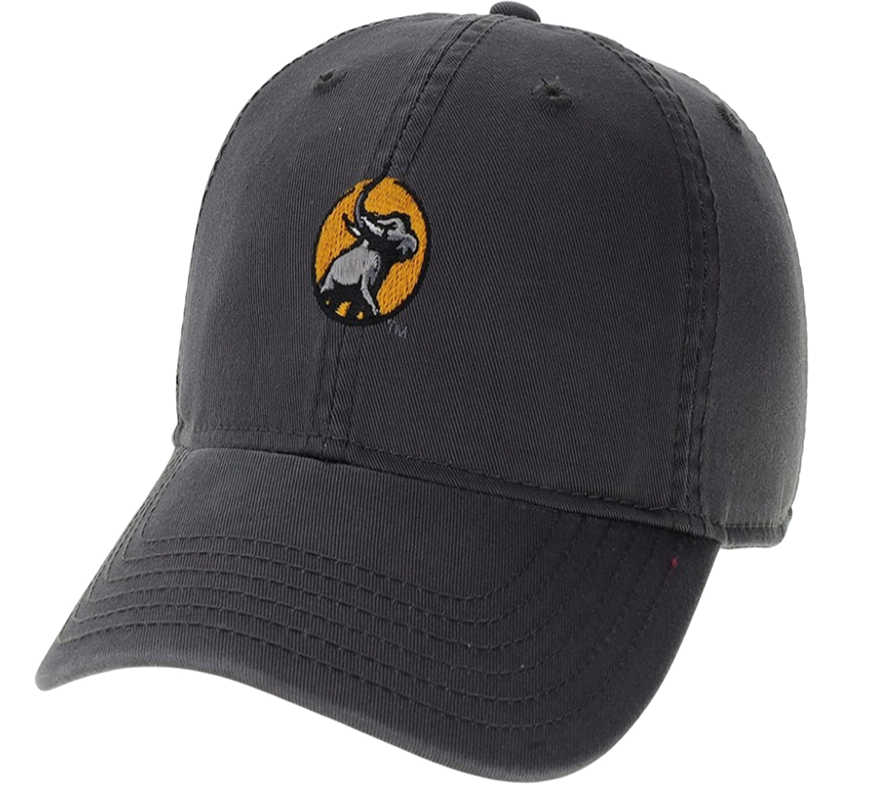
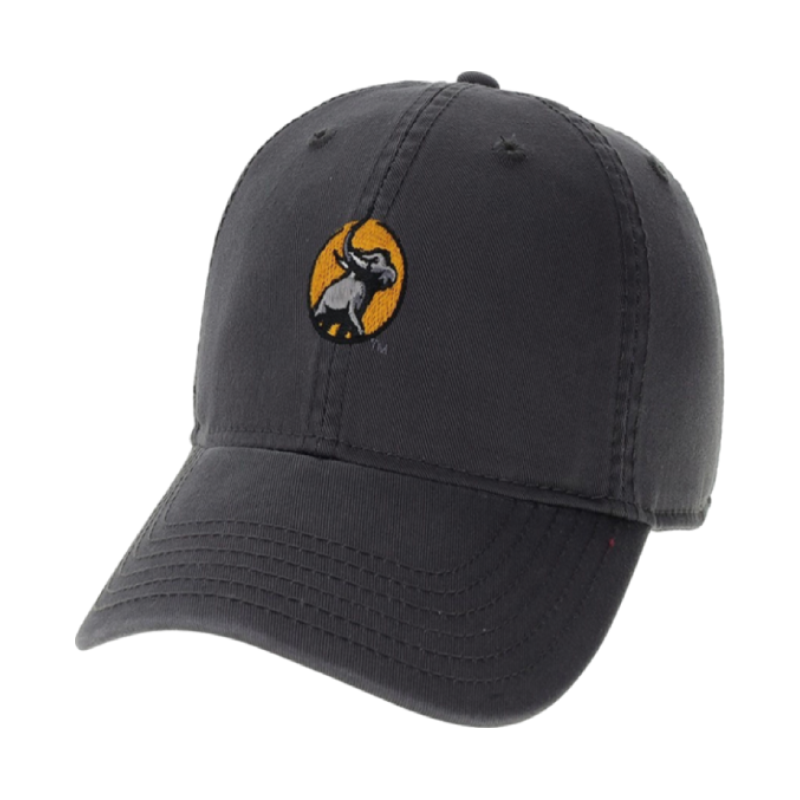
Modified images to be same size

diff --git a/frontend-react/src/products.js b/frontend-react/src/products.js
@@ -1,7 +1,7 @@
 const products = [
   {
     _id: "1",
-    name: "Purdue University Fort Wayne Mastodons Banded Sweatpants",
+    name: "PFW Mastodons Banded Sweatpants",
     image: "/images/lower.png",
     description:
       "The Champion Eco Powerblend Banded Bottom Pant provides ultimate comfort. Brushed inside to make them super soft, these pants are even better because they are made with recycled polyester fibers. Show Mastodons pride while being stylish, comfortable, and eco-friendly all at the same time. These pants feature a 31'' inseam, inside drawcord at waistband, and covered elastic ankle. There are also side pockets for keeping your id, cash, keys and game day tickets. Screen Printed Purdue University Fort Wayne graphics.",
@@ -14,7 +14,7 @@ const products = [
   },
   {
     _id: "2",
-    name: "Purdue University Fort Wayne 84x54 Mastodons Sweatshirt Blanket",
+    name: "PFW 84x54 Mastodons Blanket",
     image: "/images/blanket.png",
     description:
       "This large, heavyweight Sweatshirt Blanket is extra-soft like your favorite sweatshirt. Features a large logo on primary team color fabric. Snuggle up in team spirit with this high quality blanket. Cozy up, this blanket is large enough to share. Machine washable. 84'' x 54''. Screen printed.",
@@ -27,7 +27,7 @@ const products = [
   },
   {
     _id: "3",
-    name: "PFW Hoodie",
+    name: "PFW Grey Hoodie @Champion ",
     image: "/images/hoodie.png",
     description:
       "Stay warm -- and show that pride! The screen-printed graphic on the front of this hooded sweatshirt will communicate your school allegiance while you stay cozy in soft cotton/polyester fabric. Attached drawstring hood. Front kangaroo pocket. Rib-knit cuffs and bottom hem.",
@@ -40,7 +40,7 @@ const products = [
   },
   {
     _id: "4",
-    name: "Mastodon Hat",
+    name: "Hat with a Mastodon Logo",
     image: "/images/hat.png",
     description:
       "Top off a casual look with this easy twill campus hat. This washed cotton twill cap features an unstructured relaxed fit, a self-fabric sweatband, eyelets for ventilation, a curved front bill, and an adjustable back strap for a custom fit. You're a-head of the pack with the small school mascot logo embroidered on the front.",

diff --git a/frontend-react/src/components/Product.jsx b/frontend-react/src/components/Product.jsx
@@ -8,7 +8,7 @@ const Product = ({ product }) => {
     //TODO: Work on the image size making it uniform
     <Card className="my-3 p-3 rounded">
       <Link to={`/product/${product._id}`}>
-        <Card.Img src={product.image} variant="top" />
+        <Card.Img src={product.image} variant="top" className="img-fluid" />
       </Link>
 
       <Card.Body>
